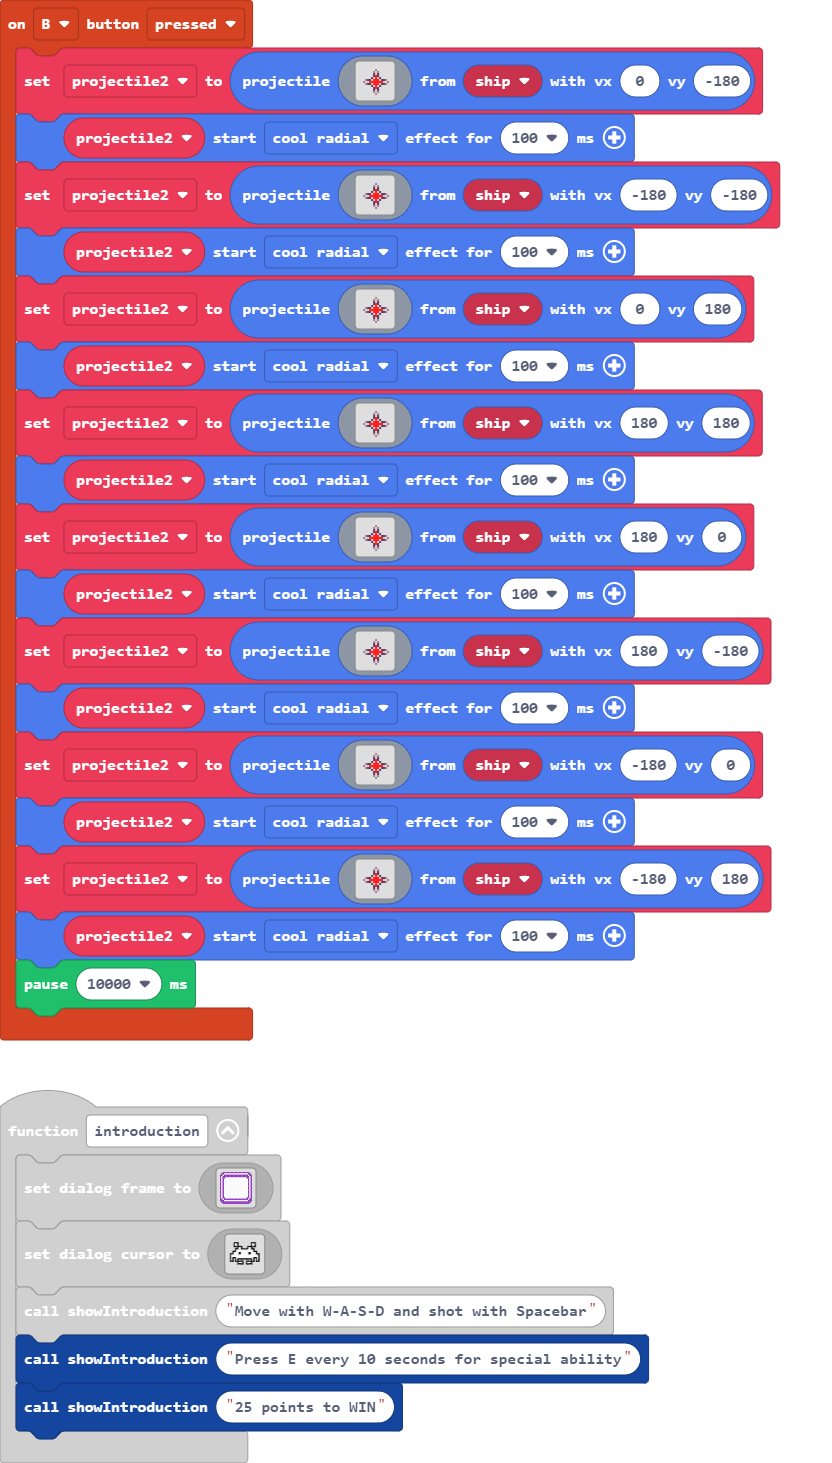
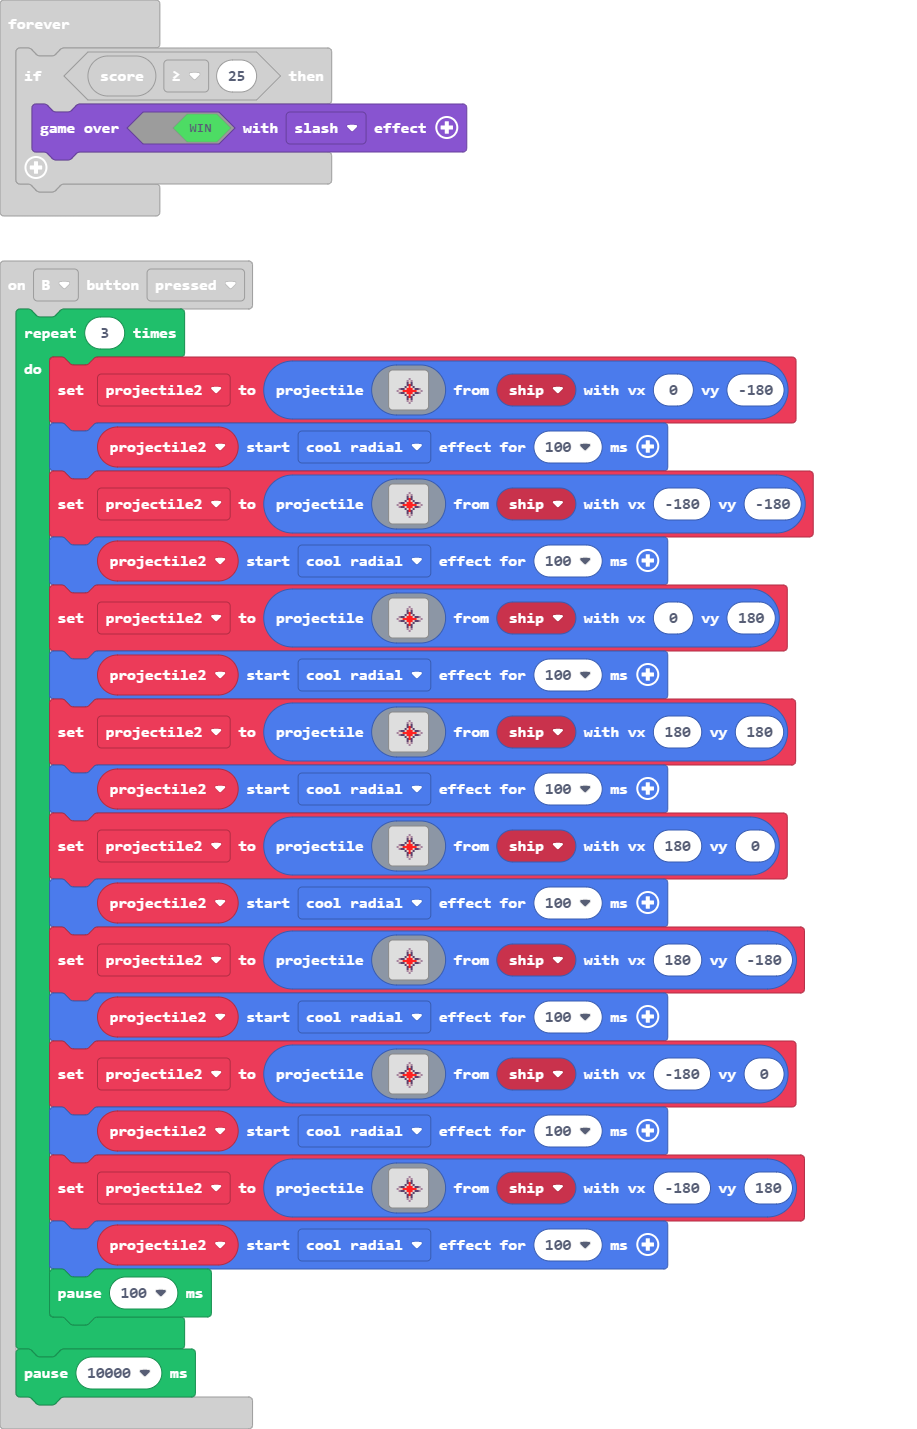
Update main.blocks, main.ts

diff --git a/main.ts b/main.ts
@@ -8,158 +8,161 @@ sprites.onOverlap(SpriteKind.Player, SpriteKind.laNave, function (sprite, otherS
     info.changeLifeBy(-1)
 })
 controller.B.onEvent(ControllerButtonEvent.Pressed, function () {
-    projectile2 = sprites.createProjectileFromSprite(img`
-        . . . . . . . . . . . . . . . . 
-        . . . . . . . . . . . . . . . . 
-        . . . . . . . . b . . . . . . . 
-        . . . . . . . b d b . . . . . . 
-        . . . . . . . c d c . . . . . . 
-        . . . . . . . c 2 c . . . . . . 
-        . . . . . . c d 2 d c . . . . . 
-        . . . b c c d 2 2 2 d c c b . . 
-        . . b d d 2 2 2 2 2 2 2 d d b . 
-        . . . b c c d 2 2 2 d c c b . . 
-        . . . . . . c d 2 d c . . . . . 
-        . . . . . . . c 2 c . . . . . . 
-        . . . . . . . c d c . . . . . . 
-        . . . . . . . b d b . . . . . . 
-        . . . . . . . . b . . . . . . . 
-        . . . . . . . . . . . . . . . . 
-        `, ship, 0, -180)
-    projectile2.startEffect(effects.coolRadial, 100)
-    projectile2 = sprites.createProjectileFromSprite(img`
-        . . . . . . . . . . . . . . . . 
-        . . . . . . . . . . . . . . . . 
-        . . . . . . . . b . . . . . . . 
-        . . . . . . . b d b . . . . . . 
-        . . . . . . . c d c . . . . . . 
-        . . . . . . . c 2 c . . . . . . 
-        . . . . . . c d 2 d c . . . . . 
-        . . . b c c d 2 2 2 d c c b . . 
-        . . b d d 2 2 2 2 2 2 2 d d b . 
-        . . . b c c d 2 2 2 d c c b . . 
-        . . . . . . c d 2 d c . . . . . 
-        . . . . . . . c 2 c . . . . . . 
-        . . . . . . . c d c . . . . . . 
-        . . . . . . . b d b . . . . . . 
-        . . . . . . . . b . . . . . . . 
-        . . . . . . . . . . . . . . . . 
-        `, ship, -180, -180)
-    projectile2.startEffect(effects.coolRadial, 100)
-    projectile2 = sprites.createProjectileFromSprite(img`
-        . . . . . . . . . . . . . . . . 
-        . . . . . . . . . . . . . . . . 
-        . . . . . . . . b . . . . . . . 
-        . . . . . . . b d b . . . . . . 
-        . . . . . . . c d c . . . . . . 
-        . . . . . . . c 2 c . . . . . . 
-        . . . . . . c d 2 d c . . . . . 
-        . . . b c c d 2 2 2 d c c b . . 
-        . . b d d 2 2 2 2 2 2 2 d d b . 
-        . . . b c c d 2 2 2 d c c b . . 
-        . . . . . . c d 2 d c . . . . . 
-        . . . . . . . c 2 c . . . . . . 
-        . . . . . . . c d c . . . . . . 
-        . . . . . . . b d b . . . . . . 
-        . . . . . . . . b . . . . . . . 
-        . . . . . . . . . . . . . . . . 
-        `, ship, 0, 180)
-    projectile2.startEffect(effects.coolRadial, 100)
-    projectile2 = sprites.createProjectileFromSprite(img`
-        . . . . . . . . . . . . . . . . 
-        . . . . . . . . . . . . . . . . 
-        . . . . . . . . b . . . . . . . 
-        . . . . . . . b d b . . . . . . 
-        . . . . . . . c d c . . . . . . 
-        . . . . . . . c 2 c . . . . . . 
-        . . . . . . c d 2 d c . . . . . 
-        . . . b c c d 2 2 2 d c c b . . 
-        . . b d d 2 2 2 2 2 2 2 d d b . 
-        . . . b c c d 2 2 2 d c c b . . 
-        . . . . . . c d 2 d c . . . . . 
-        . . . . . . . c 2 c . . . . . . 
-        . . . . . . . c d c . . . . . . 
-        . . . . . . . b d b . . . . . . 
-        . . . . . . . . b . . . . . . . 
-        . . . . . . . . . . . . . . . . 
-        `, ship, 180, 180)
-    projectile2.startEffect(effects.coolRadial, 100)
-    projectile2 = sprites.createProjectileFromSprite(img`
-        . . . . . . . . . . . . . . . . 
-        . . . . . . . . . . . . . . . . 
-        . . . . . . . . b . . . . . . . 
-        . . . . . . . b d b . . . . . . 
-        . . . . . . . c d c . . . . . . 
-        . . . . . . . c 2 c . . . . . . 
-        . . . . . . c d 2 d c . . . . . 
-        . . . b c c d 2 2 2 d c c b . . 
-        . . b d d 2 2 2 2 2 2 2 d d b . 
-        . . . b c c d 2 2 2 d c c b . . 
-        . . . . . . c d 2 d c . . . . . 
-        . . . . . . . c 2 c . . . . . . 
-        . . . . . . . c d c . . . . . . 
-        . . . . . . . b d b . . . . . . 
-        . . . . . . . . b . . . . . . . 
-        . . . . . . . . . . . . . . . . 
-        `, ship, 180, 0)
-    projectile2.startEffect(effects.coolRadial, 100)
-    projectile2 = sprites.createProjectileFromSprite(img`
-        . . . . . . . . . . . . . . . . 
-        . . . . . . . . . . . . . . . . 
-        . . . . . . . . b . . . . . . . 
-        . . . . . . . b d b . . . . . . 
-        . . . . . . . c d c . . . . . . 
-        . . . . . . . c 2 c . . . . . . 
-        . . . . . . c d 2 d c . . . . . 
-        . . . b c c d 2 2 2 d c c b . . 
-        . . b d d 2 2 2 2 2 2 2 d d b . 
-        . . . b c c d 2 2 2 d c c b . . 
-        . . . . . . c d 2 d c . . . . . 
-        . . . . . . . c 2 c . . . . . . 
-        . . . . . . . c d c . . . . . . 
-        . . . . . . . b d b . . . . . . 
-        . . . . . . . . b . . . . . . . 
-        . . . . . . . . . . . . . . . . 
-        `, ship, 180, -180)
-    projectile2.startEffect(effects.coolRadial, 100)
-    projectile2 = sprites.createProjectileFromSprite(img`
-        . . . . . . . . . . . . . . . . 
-        . . . . . . . . . . . . . . . . 
-        . . . . . . . . b . . . . . . . 
-        . . . . . . . b d b . . . . . . 
-        . . . . . . . c d c . . . . . . 
-        . . . . . . . c 2 c . . . . . . 
-        . . . . . . c d 2 d c . . . . . 
-        . . . b c c d 2 2 2 d c c b . . 
-        . . b d d 2 2 2 2 2 2 2 d d b . 
-        . . . b c c d 2 2 2 d c c b . . 
-        . . . . . . c d 2 d c . . . . . 
-        . . . . . . . c 2 c . . . . . . 
-        . . . . . . . c d c . . . . . . 
-        . . . . . . . b d b . . . . . . 
-        . . . . . . . . b . . . . . . . 
-        . . . . . . . . . . . . . . . . 
-        `, ship, -180, 0)
-    projectile2.startEffect(effects.coolRadial, 100)
-    projectile2 = sprites.createProjectileFromSprite(img`
-        . . . . . . . . . . . . . . . . 
-        . . . . . . . . . . . . . . . . 
-        . . . . . . . . b . . . . . . . 
-        . . . . . . . b d b . . . . . . 
-        . . . . . . . c d c . . . . . . 
-        . . . . . . . c 2 c . . . . . . 
-        . . . . . . c d 2 d c . . . . . 
-        . . . b c c d 2 2 2 d c c b . . 
-        . . b d d 2 2 2 2 2 2 2 d d b . 
-        . . . b c c d 2 2 2 d c c b . . 
-        . . . . . . c d 2 d c . . . . . 
-        . . . . . . . c 2 c . . . . . . 
-        . . . . . . . c d c . . . . . . 
-        . . . . . . . b d b . . . . . . 
-        . . . . . . . . b . . . . . . . 
-        . . . . . . . . . . . . . . . . 
-        `, ship, -180, 180)
-    projectile2.startEffect(effects.coolRadial, 100)
+    for (let index = 0; index < 3; index++) {
+        projectile2 = sprites.createProjectileFromSprite(img`
+            . . . . . . . . . . . . . . . . 
+            . . . . . . . . . . . . . . . . 
+            . . . . . . . . b . . . . . . . 
+            . . . . . . . b d b . . . . . . 
+            . . . . . . . c d c . . . . . . 
+            . . . . . . . c 2 c . . . . . . 
+            . . . . . . c d 2 d c . . . . . 
+            . . . b c c d 2 2 2 d c c b . . 
+            . . b d d 2 2 2 2 2 2 2 d d b . 
+            . . . b c c d 2 2 2 d c c b . . 
+            . . . . . . c d 2 d c . . . . . 
+            . . . . . . . c 2 c . . . . . . 
+            . . . . . . . c d c . . . . . . 
+            . . . . . . . b d b . . . . . . 
+            . . . . . . . . b . . . . . . . 
+            . . . . . . . . . . . . . . . . 
+            `, ship, 0, -180)
+        projectile2.startEffect(effects.coolRadial, 100)
+        projectile2 = sprites.createProjectileFromSprite(img`
+            . . . . . . . . . . . . . . . . 
+            . . . . . . . . . . . . . . . . 
+            . . . . . . . . b . . . . . . . 
+            . . . . . . . b d b . . . . . . 
+            . . . . . . . c d c . . . . . . 
+            . . . . . . . c 2 c . . . . . . 
+            . . . . . . c d 2 d c . . . . . 
+            . . . b c c d 2 2 2 d c c b . . 
+            . . b d d 2 2 2 2 2 2 2 d d b . 
+            . . . b c c d 2 2 2 d c c b . . 
+            . . . . . . c d 2 d c . . . . . 
+            . . . . . . . c 2 c . . . . . . 
+            . . . . . . . c d c . . . . . . 
+            . . . . . . . b d b . . . . . . 
+            . . . . . . . . b . . . . . . . 
+            . . . . . . . . . . . . . . . . 
+            `, ship, -180, -180)
+        projectile2.startEffect(effects.coolRadial, 100)
+        projectile2 = sprites.createProjectileFromSprite(img`
+            . . . . . . . . . . . . . . . . 
+            . . . . . . . . . . . . . . . . 
+            . . . . . . . . b . . . . . . . 
+            . . . . . . . b d b . . . . . . 
+            . . . . . . . c d c . . . . . . 
+            . . . . . . . c 2 c . . . . . . 
+            . . . . . . c d 2 d c . . . . . 
+            . . . b c c d 2 2 2 d c c b . . 
+            . . b d d 2 2 2 2 2 2 2 d d b . 
+            . . . b c c d 2 2 2 d c c b . . 
+            . . . . . . c d 2 d c . . . . . 
+            . . . . . . . c 2 c . . . . . . 
+            . . . . . . . c d c . . . . . . 
+            . . . . . . . b d b . . . . . . 
+            . . . . . . . . b . . . . . . . 
+            . . . . . . . . . . . . . . . . 
+            `, ship, 0, 180)
+        projectile2.startEffect(effects.coolRadial, 100)
+        projectile2 = sprites.createProjectileFromSprite(img`
+            . . . . . . . . . . . . . . . . 
+            . . . . . . . . . . . . . . . . 
+            . . . . . . . . b . . . . . . . 
+            . . . . . . . b d b . . . . . . 
+            . . . . . . . c d c . . . . . . 
+            . . . . . . . c 2 c . . . . . . 
+            . . . . . . c d 2 d c . . . . . 
+            . . . b c c d 2 2 2 d c c b . . 
+            . . b d d 2 2 2 2 2 2 2 d d b . 
+            . . . b c c d 2 2 2 d c c b . . 
+            . . . . . . c d 2 d c . . . . . 
+            . . . . . . . c 2 c . . . . . . 
+            . . . . . . . c d c . . . . . . 
+            . . . . . . . b d b . . . . . . 
+            . . . . . . . . b . . . . . . . 
+            . . . . . . . . . . . . . . . . 
+            `, ship, 180, 180)
+        projectile2.startEffect(effects.coolRadial, 100)
+        projectile2 = sprites.createProjectileFromSprite(img`
+            . . . . . . . . . . . . . . . . 
+            . . . . . . . . . . . . . . . . 
+            . . . . . . . . b . . . . . . . 
+            . . . . . . . b d b . . . . . . 
+            . . . . . . . c d c . . . . . . 
+            . . . . . . . c 2 c . . . . . . 
+            . . . . . . c d 2 d c . . . . . 
+            . . . b c c d 2 2 2 d c c b . . 
+            . . b d d 2 2 2 2 2 2 2 d d b . 
+            . . . b c c d 2 2 2 d c c b . . 
+            . . . . . . c d 2 d c . . . . . 
+            . . . . . . . c 2 c . . . . . . 
+            . . . . . . . c d c . . . . . . 
+            . . . . . . . b d b . . . . . . 
+            . . . . . . . . b . . . . . . . 
+            . . . . . . . . . . . . . . . . 
+            `, ship, 180, 0)
+        projectile2.startEffect(effects.coolRadial, 100)
+        projectile2 = sprites.createProjectileFromSprite(img`
+            . . . . . . . . . . . . . . . . 
+            . . . . . . . . . . . . . . . . 
+            . . . . . . . . b . . . . . . . 
+            . . . . . . . b d b . . . . . . 
+            . . . . . . . c d c . . . . . . 
+            . . . . . . . c 2 c . . . . . . 
+            . . . . . . c d 2 d c . . . . . 
+            . . . b c c d 2 2 2 d c c b . . 
+            . . b d d 2 2 2 2 2 2 2 d d b . 
+            . . . b c c d 2 2 2 d c c b . . 
+            . . . . . . c d 2 d c . . . . . 
+            . . . . . . . c 2 c . . . . . . 
+            . . . . . . . c d c . . . . . . 
+            . . . . . . . b d b . . . . . . 
+            . . . . . . . . b . . . . . . . 
+            . . . . . . . . . . . . . . . . 
+            `, ship, 180, -180)
+        projectile2.startEffect(effects.coolRadial, 100)
+        projectile2 = sprites.createProjectileFromSprite(img`
+            . . . . . . . . . . . . . . . . 
+            . . . . . . . . . . . . . . . . 
+            . . . . . . . . b . . . . . . . 
+            . . . . . . . b d b . . . . . . 
+            . . . . . . . c d c . . . . . . 
+            . . . . . . . c 2 c . . . . . . 
+            . . . . . . c d 2 d c . . . . . 
+            . . . b c c d 2 2 2 d c c b . . 
+            . . b d d 2 2 2 2 2 2 2 d d b . 
+            . . . b c c d 2 2 2 d c c b . . 
+            . . . . . . c d 2 d c . . . . . 
+            . . . . . . . c 2 c . . . . . . 
+            . . . . . . . c d c . . . . . . 
+            . . . . . . . b d b . . . . . . 
+            . . . . . . . . b . . . . . . . 
+            . . . . . . . . . . . . . . . . 
+            `, ship, -180, 0)
+        projectile2.startEffect(effects.coolRadial, 100)
+        projectile2 = sprites.createProjectileFromSprite(img`
+            . . . . . . . . . . . . . . . . 
+            . . . . . . . . . . . . . . . . 
+            . . . . . . . . b . . . . . . . 
+            . . . . . . . b d b . . . . . . 
+            . . . . . . . c d c . . . . . . 
+            . . . . . . . c 2 c . . . . . . 
+            . . . . . . c d 2 d c . . . . . 
+            . . . b c c d 2 2 2 d c c b . . 
+            . . b d d 2 2 2 2 2 2 2 d d b . 
+            . . . b c c d 2 2 2 d c c b . . 
+            . . . . . . c d 2 d c . . . . . 
+            . . . . . . . c 2 c . . . . . . 
+            . . . . . . . c d c . . . . . . 
+            . . . . . . . b d b . . . . . . 
+            . . . . . . . . b . . . . . . . 
+            . . . . . . . . . . . . . . . . 
+            `, ship, -180, 180)
+        projectile2.startEffect(effects.coolRadial, 100)
+        pause(100)
+    }
     pause(10000)
 })
 function introduction () {
@@ -410,6 +413,6 @@ game.onUpdateInterval(2000, function () {
 })
 forever(function () {
     if (info.score() >= 25) {
-        game.over(true)
+        game.over(true, effects.slash)
     }
 })
